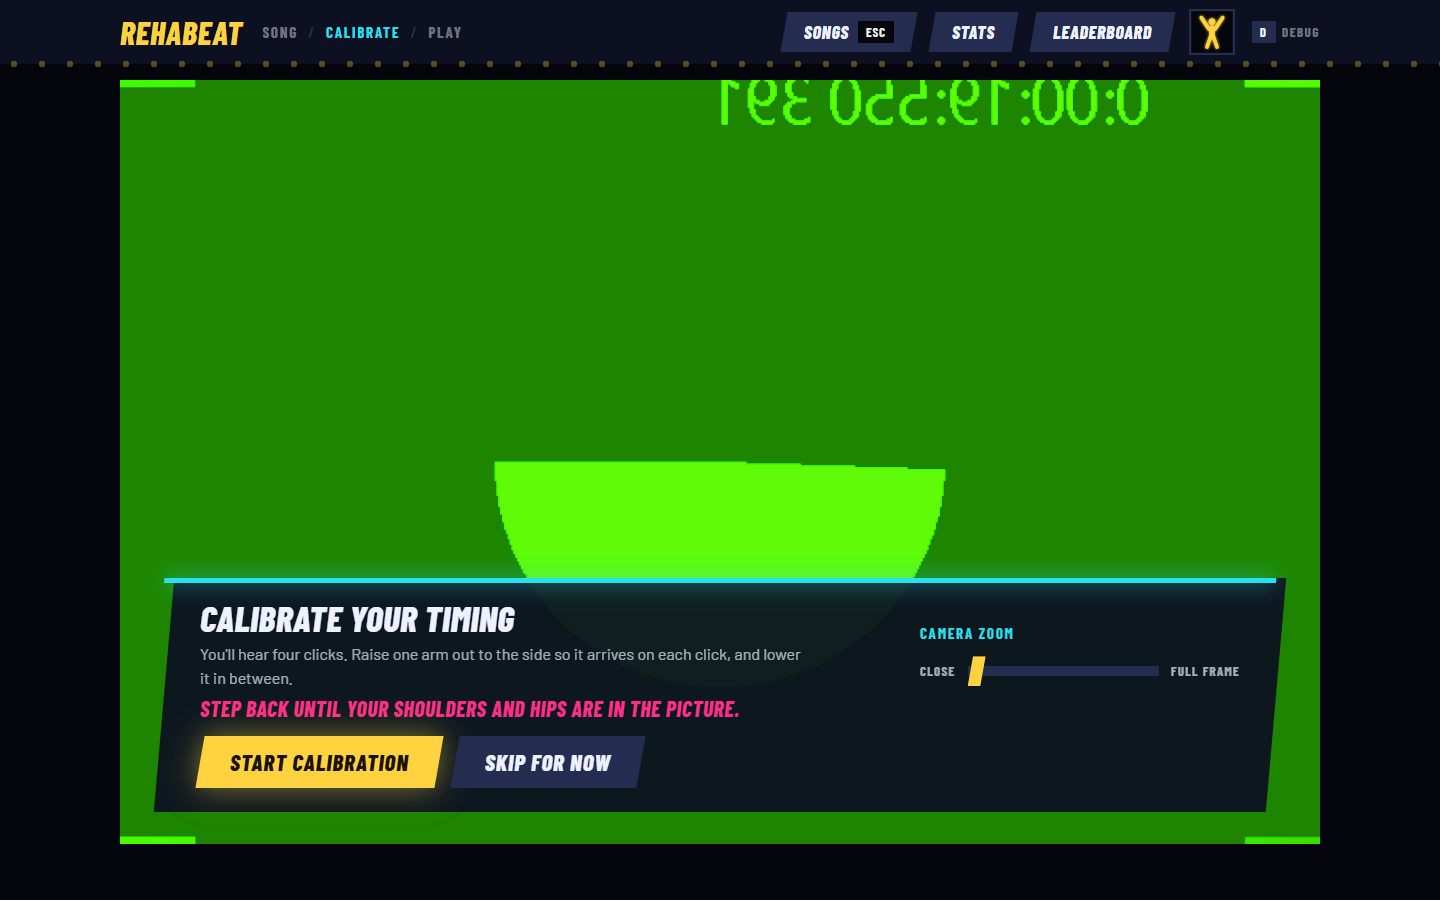
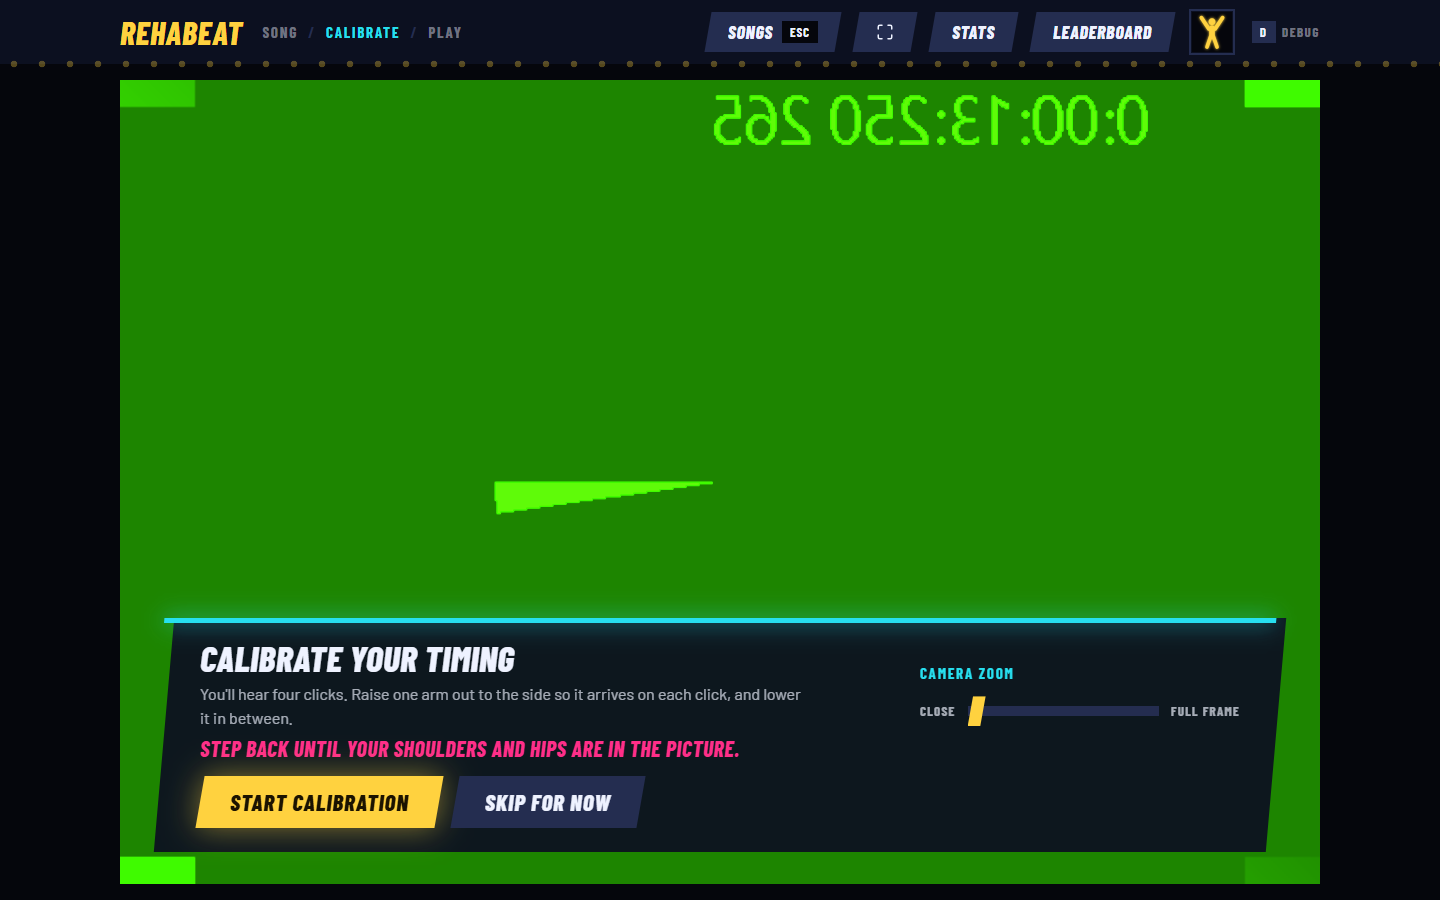
fix: Play's bar fits 1024 px with main's Figure and Full screen buttons; refreshed screenshots

diff --git a/src/ui/screens.css b/src/ui/screens.css
@@ -887,4 +887,9 @@
   .app[data-screen='menu'] .app__bar .meters {
     display: none;
   }
+
+  /* The D-for-debug reminder gives way to the Play buttons (Figure, Full screen) on a narrower window. */
+  .app__hint {
+    display: none;
+  }
 }
